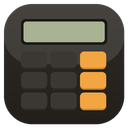
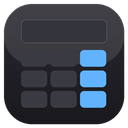
Kalkulator: wygląd spójny z Veyrą (grafit, akcent jak dock)
Claude-Session: https://claude.ai/code/session_0142eRbb9rZrxLBVQEdUuYuu

diff --git a/apps/calc/Calculator.cpp b/apps/calc/Calculator.cpp
@@ -1,5 +1,5 @@
-// Kalkulator Explodera — wygląd klasycznego urządzenia: ciepły grafitowy korpus, matowy wyświetlacz jak LCD (szałwia),
-// kremowe cyfry, bursztynowe działania i "=", płaskie klawisze z dolną krawędzią (bez gradientów i poświat).
+// Kalkulator Explodera — wygląd spójny z Veyrą (dock, panele, menu): grafitowe tło, panel wyniku z jasną obwódką,
+// płaskie zaokrąglone klawisze, niebieski akcent #61B3FF na działaniach i "=", Segoe UI. Bez przezroczystości.
 // Górny rząd małych klawiszy: ± √x x² 1/x. Szerokie 0.
 // Klawiatura: cyfry, + - * /, przecinek/kropka, Enter/=, Backspace, Esc (C), Delete (CE), %, Ctrl+C / Ctrl+V.
 #include "../../src/core/AppWindow.h"
@@ -35,14 +35,9 @@ constexpr Key kKeys[] = {
 };
 constexpr int kKeyCount = static_cast<int>(std::size(kKeys));
 constexpr float kChipH = 30.f, kGap = 8.f, kPad = 14.f;
-// Paleta: grafit, krem, bursztyn, wyświetlacz w kolorze szałwii
-const D2D1_COLOR_F kBody = D2D1::ColorF(0x26231F), kKey = D2D1::ColorF(0x3B3732), kKeyFn = D2D1::ColorF(0x56514A),
-                   kCream = D2D1::ColorF(0xEDE6DA), kAmber = D2D1::ColorF(0xF2A541), kLcd = D2D1::ColorF(0xA9B293),
-                   kLcdInk = D2D1::ColorF(0x1F241C);
-
-D2D1_COLOR_F Shade(D2D1_COLOR_F c, float d) {
-    return {std::clamp(c.r + d, 0.f, 1.f), std::clamp(c.g + d, 0.f, 1.f), std::clamp(c.b + d, 0.f, 1.f), c.a};
-}
+// Paleta Veyry: grafit jak panele, białe nakładki, akcent jak w docku i menu
+const D2D1_COLOR_F kBody = D2D1::ColorF(0x1C1C21), kAccent = D2D1::ColorF(0.38f, 0.70f, 1.f), kOnAccent = D2D1::ColorF(0x0B1A26);
+D2D1_COLOR_F White(float a) { return D2D1::ColorF(1.f, 1.f, 1.f, a); }
 
 // Liczba → tekst: do 15 cyfr znaczących, przecinek, grupy tysięcy oddzielone wąską spacją
 std::wstring Format(double v) {
@@ -84,11 +79,11 @@ public:
         o.minWidth = 300.f;
         o.minHeight = 500.f;
         if (!Create(inst, g, o)) return false;
-        exprFormat_ = MakeFormat(L"Bahnschrift", 15.f, DWRITE_FONT_WEIGHT_NORMAL, DWRITE_TEXT_ALIGNMENT_TRAILING);
-        historyFormat_ = MakeFormat(L"Bahnschrift", 12.f, DWRITE_FONT_WEIGHT_NORMAL, DWRITE_TEXT_ALIGNMENT_TRAILING);
-        keyFormat_ = MakeFormat(L"Bahnschrift", 15.f, DWRITE_FONT_WEIGHT_NORMAL, DWRITE_TEXT_ALIGNMENT_CENTER);
-        digitFormat_ = MakeFormat(L"Bahnschrift", 22.f, DWRITE_FONT_WEIGHT_NORMAL, DWRITE_TEXT_ALIGNMENT_CENTER);
-        opFormat_ = MakeFormat(L"Bahnschrift", 26.f, DWRITE_FONT_WEIGHT_LIGHT, DWRITE_TEXT_ALIGNMENT_CENTER);
+        exprFormat_ = MakeFormat(L"Segoe UI", 15.f, DWRITE_FONT_WEIGHT_NORMAL, DWRITE_TEXT_ALIGNMENT_TRAILING);
+        historyFormat_ = MakeFormat(L"Segoe UI", 12.f, DWRITE_FONT_WEIGHT_NORMAL, DWRITE_TEXT_ALIGNMENT_TRAILING);
+        keyFormat_ = MakeFormat(L"Segoe UI", 15.f, DWRITE_FONT_WEIGHT_NORMAL, DWRITE_TEXT_ALIGNMENT_CENTER);
+        digitFormat_ = MakeFormat(L"Segoe UI", 22.f, DWRITE_FONT_WEIGHT_NORMAL, DWRITE_TEXT_ALIGNMENT_CENTER);
+        opFormat_ = MakeFormat(L"Segoe UI", 26.f, DWRITE_FONT_WEIGHT_LIGHT, DWRITE_TEXT_ALIGNMENT_CENTER);
         glyphFormat_ = MakeFormat(L"Segoe MDL2 Assets", 16.f, DWRITE_FONT_WEIGHT_NORMAL, DWRITE_TEXT_ALIGNMENT_CENTER);
         Redraw();
         return true;
@@ -99,48 +94,57 @@ protected:
         const float W = widthDip_;
         dc->Clear(kBody);
 
-        // Wyświetlacz: matowy panel jak LCD, ciemniejsza linia u góry (zagłębienie), ciemne cyfry
-        const D2D1_RECT_F lcd{kPad, titleH_ + 2.f, W - kPad, ChipsTop() - kGap - 4.f};
-        Fill(dc, {lcd.left - 3.f, lcd.top - 3.f, lcd.right + 3.f, lcd.bottom + 3.f}, D2D1::ColorF(0x1A1815), 13.f);  // ramka
-        Fill(dc, lcd, kLcd, 10.f);
-        Fill(dc, {lcd.left + 10.f, lcd.top + 1.f, lcd.right - 10.f, lcd.top + 3.f}, D2D1::ColorF(0x000000, 0.12f));
-        float hy = lcd.top + 10.f;
+        // Panel wyniku jak panele pulpitu: delikatne wypełnienie + jasna obwódka
+        const D2D1_RECT_F panel{kPad, titleH_ + 2.f, W - kPad, ChipsTop() - kGap - 2.f};
+        Fill(dc, panel, White(0.05f), 16.f);
+        brush_->SetColor(White(0.12f));
+        dc->DrawRoundedRectangle(D2D1::RoundedRect({panel.left + 0.5f, panel.top + 0.5f, panel.right - 0.5f, panel.bottom - 0.5f}, 16.f, 16.f),
+                                 brush_.Get(), 1.f);
+        float hy = panel.top + 12.f;
         for (size_t i = 0; i < history_.size(); ++i, hy += 16.f)
-            Text(dc, history_[i], historyFormat_.Get(), {lcd.left + 14.f, hy, lcd.right - 14.f, hy + 15.f},
-                 D2D1::ColorF(kLcdInk.r, kLcdInk.g, kLcdInk.b, 0.35f + 0.12f * static_cast<float>(i)));
-        Text(dc, expression_, exprFormat_.Get(), {lcd.left + 14.f, lcd.bottom - 84.f, lcd.right - 14.f, lcd.bottom - 62.f},
-             D2D1::ColorF(kLcdInk.r, kLcdInk.g, kLcdInk.b, 0.7f));
-        const float size = std::clamp(52.f * 11.f / std::max<size_t>(display_.size(), 11), 24.f, 52.f);
+            Text(dc, history_[i], historyFormat_.Get(), {panel.left + 14.f, hy, panel.right - 16.f, hy + 15.f},
+                 White(0.30f + 0.10f * static_cast<float>(i)));
+        Text(dc, expression_, exprFormat_.Get(), {panel.left + 14.f, panel.bottom - 84.f, panel.right - 16.f, panel.bottom - 62.f}, White(0.6f));
+        const float size = std::clamp(50.f * 11.f / std::max<size_t>(display_.size(), 11), 24.f, 50.f);
         if (size != bigSize_ || !bigFormat_) {
             bigSize_ = size;
-            bigFormat_ = MakeFormat(L"Bahnschrift", size, DWRITE_FONT_WEIGHT_SEMI_BOLD, DWRITE_TEXT_ALIGNMENT_TRAILING);
+            bigFormat_ = MakeFormat(L"Segoe UI", size, DWRITE_FONT_WEIGHT_SEMI_LIGHT, DWRITE_TEXT_ALIGNMENT_TRAILING);
         }
-        Text(dc, display_, bigFormat_.Get(), {lcd.left + 10.f, lcd.bottom - 66.f, lcd.right - 14.f, lcd.bottom - 8.f}, kLcdInk);
+        Text(dc, display_, bigFormat_.Get(), {panel.left + 10.f, panel.bottom - 66.f, panel.right - 16.f, panel.bottom - 6.f}, White(1.f));
 
         for (int i = 0; i < kKeyCount; ++i) {
             const Key& k = kKeys[i];
             const D2D1_RECT_F r = KeyRect(i);
+            const bool hot = i == hover_, down = i == pressed_;
             const bool selectedOp = k.kind == K::Op && OpOf(k.label) == op_ && newEntry_ && op_ != Op::None;
-            D2D1_COLOR_F bg = kKey, fg = kCream;
+            D2D1_COLOR_F bg = White(down ? 0.05f : hot ? 0.13f : 0.08f), fg = White(0.95f);
             IDWriteTextFormat* f = digitFormat_.Get();
             switch (k.style) {
-            case 1: fg = selectedOp ? kBody : kAmber, bg = selectedOp ? kAmber : kKey; break;
-            case 2: bg = kAmber, fg = kBody; break;
-            case 3: bg = kKeyFn, fg = D2D1::ColorF(0xFF8A5B), f = keyFormat_.Get(); break;
-            case 4: bg = kKeyFn, f = k.kind == K::Back ? glyphFormat_.Get() : keyFormat_.Get(); break;
-            case 5: bg = D2D1::ColorF(0x322E29), fg = D2D1::ColorF(0xCFC7B9), f = keyFormat_.Get(); break;
+            case 1:  // działania: niebieski odcień, wybrane — pełny akcent
+                bg = selectedOp ? kAccent : D2D1::ColorF(kAccent.r, kAccent.g, kAccent.b, down ? 0.10f : hot ? 0.24f : 0.16f);
+                fg = selectedOp ? kOnAccent : kAccent;
+                break;
+            case 2:
+                bg = hot && !down ? D2D1::ColorF(0.48f, 0.77f, 1.f) : kAccent;
+                fg = kOnAccent;
+                break;
+            case 3:
+            case 4:
+                bg = White(down ? 0.03f : hot ? 0.09f : 0.045f);
+                fg = White(0.8f);
+                f = k.kind == K::Back ? glyphFormat_.Get() : keyFormat_.Get();
+                break;
+            case 5:
+                bg = White(down ? 0.02f : hot ? 0.08f : 0.035f);
+                fg = White(0.7f);
+                f = keyFormat_.Get();
+                break;
             default: break;
             }
-            const float radius = k.style == 5 ? 8.f : 12.f;
-            const bool down = i == pressed_;
-            const float shift = down ? 2.f : 0.f;  // wciśnięty klawisz "opada" na dolną krawędź
-            // Dolna krawędź (klawisz fizyczny), potem wierzch
-            Fill(dc, {r.left, r.top + 2.f, r.right, r.bottom}, Shade(bg, -0.10f), radius);
-            const D2D1_RECT_F face{r.left, r.top + shift, r.right, r.bottom - 2.f + shift};
-            Fill(dc, face, Shade(bg, i == hover_ && !down ? 0.05f : 0.f), radius);
-            if (k.kind == K::Op || k.kind == K::Equals || k.kind == K::Negate) DrawSymbol(dc, k.label, face, fg);
-            else if (k.span == 2) Text(dc, k.label, f, {face.left, face.top, face.left + (face.right - face.left) / 2, face.bottom}, fg);
-            else Text(dc, k.label, f, face, fg);
+            Fill(dc, r, bg, k.style == 5 ? 8.f : 12.f);
+            if (k.kind == K::Op || k.kind == K::Equals || k.kind == K::Negate) DrawSymbol(dc, k.label, r, fg);
+            else if (k.span == 2) Text(dc, k.label, f, {r.left, r.top, r.left + (r.right - r.left) / 2, r.bottom}, fg);
+            else Text(dc, k.label, f, r, fg);
         }
     }
 

diff --git a/tools/make_icons.py b/tools/make_icons.py
@@ -44,15 +44,13 @@ def terminal():
 
 
 def calculator():
-    img = base((0x30, 0x2C, 0x27), (0x22, 0x1F, 0x1B))  # grafit jak korpus kalkulatora
+    img = base((0x2A, 0x2A, 0x31), (0x18, 0x18, 0x1D))  # grafit Veyry
     d = ImageDraw.Draw(img)
-    d.rounded_rectangle([84, 76, S - 84, 178], radius=18, fill=(0x1A, 0x18, 0x15))
-    d.rounded_rectangle([94, 86, S - 94, 168], radius=12, fill=(0xA9, 0xB2, 0x93))  # wyświetlacz
+    d.rounded_rectangle([84, 78, S - 84, 172], radius=20, fill=(0x34, 0x34, 0x3C), outline=(0x55, 0x55, 0x60), width=3)
     for i in range(9):
-        x, y = 84 + (i % 3) * 118, 206 + (i // 3) * 82
-        amber = i % 3 == 2
-        d.rounded_rectangle([x, y + 6, x + 104, y + 70], radius=16, fill=(0xC8, 0x86, 0x30) if amber else (0x2C, 0x29, 0x25))
-        d.rounded_rectangle([x, y, x + 104, y + 64], radius=16, fill=(0xF2, 0xA5, 0x41) if amber else (0x3B, 0x37, 0x32))
+        x, y = 84 + (i % 3) * 118, 200 + (i // 3) * 82
+        blue = i % 3 == 2
+        d.rounded_rectangle([x, y, x + 104, y + 66], radius=16, fill=(0x61, 0xB3, 0xFF) if blue else (0x3A, 0x3A, 0x43))
     return img
 
 

diff --git a/projekt.md b/projekt.md
@@ -148,6 +148,7 @@ Mieszanka stylów: **Windows 11 + Windows 10 + KDE Plasma + Liquid Glass (iOS)**
     - **Kalkulator**: symbole działań (÷ × − + = ±) rysowane liniami (czcionka dawała dziwny „+”); odświeżony wygląd — gradient tła, karta wyniku z fioletową poświatą i akcentem fiolet→niebieski, przyciski z głębią (gradient + jaśniejsza krawędź), funkcje jako obrysowane pigułki.
     - **Ikonki Sklepu wbudowane w exe**: `tools/fetch_store_icons.py` raz pobiera najlepsze źródła (dashboard-icons, Wikimedia Commons, GitHub projektów, icon.horse), bierze największą klatkę, usuwa białe tło, odwraca ciemne jednokolorowe logo, przycina logo z napisem do znaku (Battle.net, Ubisoft), robi kwadrat 128 px → `res/store/*.png` + `apps/store/store_icons.rc` (zasoby RCDATA `I_<ID>`; bez cudzysłowów — rc zostawia je w nazwie). Sklep nie pobiera nic przy starcie. MSI Afterburner bez ikonki (kafelek z inicjałami).
     - **Kalkulator — kolejna zmiana wyglądu** (użytkownik: fiolet z poświatą „wygląda jak AI”, ± w lewym dolnym rogu dziwny): styl klasycznego urządzenia — grafitowy korpus #26231F, matowy wyświetlacz jak LCD (szałwia #A9B293, ciemne cyfry, ramka), kremowe cyfry, bursztynowe działania i „=” (#F2A541), płaskie klawisze z dolną krawędzią (wciśnięty „opada”), bez gradientów i poświat. Szerokie „0”; górny rząd małych klawiszy: ± √x x² 1/x; CE tylko klawiszem Delete. Ikona w tych barwach.
+    - **Kalkulator — wygląd wybrany przez użytkownika: spójny z Veyrą** (styl retro uznał za „stary”; wybór z 3 podglądów): grafit #1C1C21, panel wyniku jak panele pulpitu (białe 5% + obwódka 12%), płaskie klawisze z białymi nakładkami, akcent #61B3FF (jak dock i menu) na działaniach i „=”, Segoe UI. Ikona w tych barwach.
   - Testy bez przeszkadzania: zrzuty okien aplikacji przez `PrintWindow` (nie zrzut ekranu — okno bywa pod przeglądarką użytkownika).
   - Kod wysłany do repozytorium GitHub: https://github.com/Promileczek/Veyra (README należy do użytkownika — bez zmian).
 
